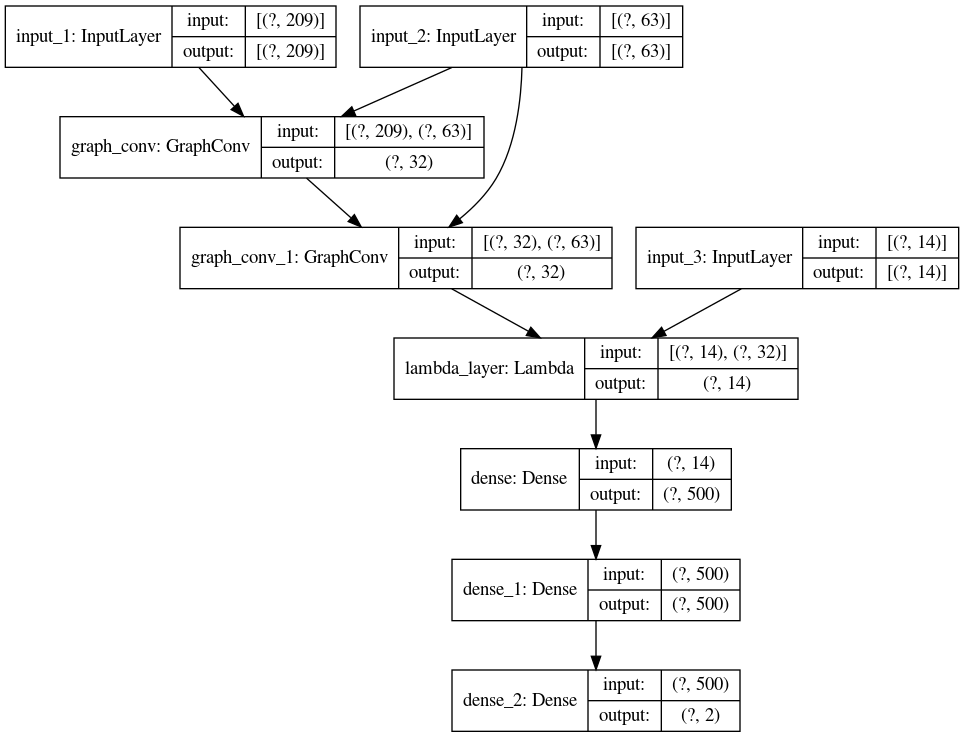
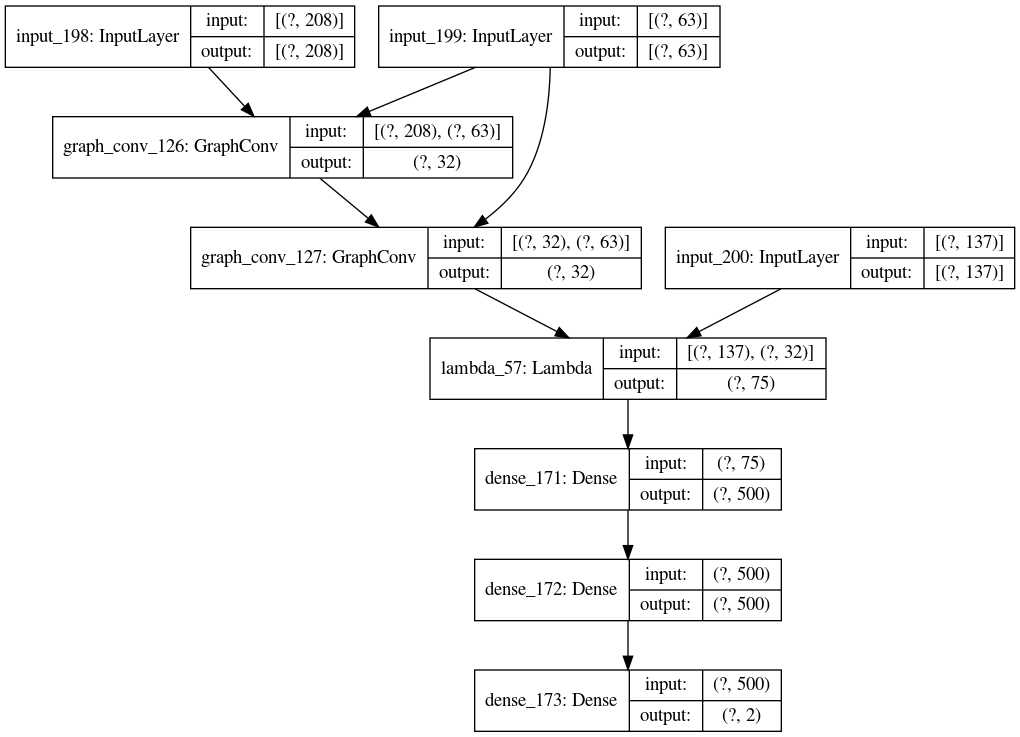
Works on batches for now.

diff --git a/trial1.py b/trial1.py
@@ -25,7 +25,7 @@ from tensorflow.keras.layers import Dense
 from tensorflow.keras.utils import plot_model
 
 
-from spektral.datasets import citation
+
 from spektral.layers import GraphConv
 from spektral.utils.convolution import localpooling_filter
 
@@ -40,6 +40,8 @@ train=lyft_data.sample(frac=0.8,random_state=200) #random state is a seed value
 test=lyft_data.drop(train.index)
 
 area_stat = pd.read_csv("areaStat.csv")
+
+
 
 #print(lyft_data.describe())
 
@@ -56,7 +58,7 @@ A = sparse.csr_matrix(area_A)
 # Parameters
 K = 2                   # Degree of propagation
 N = area_stat.shape[0]          # Number of nodes in the graph
-F = area_stat.shape[1]          # Original size of node features
+F = area_stat_np.shape[1]          # Original size of node features
 l2_reg = 5e-6           # L2 regularization rate
 learning_rate = 0.2     # Learning rate
 epochs = 2000         # Number of training epochs
@@ -66,40 +68,30 @@ embedding_vecor_length2 = 32
 
 
 # Get one hot encoding of columns B
-one_hot_o_train = pd.get_dummies(train['PUlocationID'], prefix='o')
-one_hot_d_train = pd.get_dummies(train['DOlocationID'], prefix='d')
+def create_data(d):
+    one_hot_o = pd.get_dummies(d['PUlocationID'], prefix='o')
+    one_hot_d = pd.get_dummies(d['DOlocationID'], prefix='d')
+    label = pd.get_dummies(d['SR_Flag'])
+    label_np = label.to_numpy().astype(np.float32)
+    d = d.drop('SR_Flag',axis = 1)
+    d = d.drop('PUlocationID',axis = 1)
+    d = d.drop('DOlocationID',axis = 1)
+    start_o = d.shape[1]
+    d = d.join(one_hot_o)
+    end_o = d.shape[1]-1
+    start_d = end_o+1
+    d = d.join(one_hot_d)
+    
+    d_np = d.to_numpy().astype(np.float32)
+    return [d_np,label_np,start_o,end_o,start_d]
+    
+[train_np,label_train_np,start_o,end_o,start_d] = create_data(train)
+[test_np,label_test_np,start_o1,end_o1,start_d1] = create_data(test)
 
-one_hot_o_test = pd.get_dummies(test['PUlocationID'], prefix='o')
-one_hot_d_test = pd.get_dummies(test['DOlocationID'], prefix='d')
 
-label_train = pd.get_dummies(train['SR_Flag'])
-label_train_np = label_train.to_numpy().astype(np.float32)
 
-label_test = pd.get_dummies(test['SR_Flag'])
-label_test_np = label_test.to_numpy().astype(np.float32)
 
-train = train.drop('SR_Flag',axis = 1)
-test = test.drop('SR_Flag',axis = 1)
-
-# Drop column B as it is now encoded
-train = train.drop('PUlocationID',axis = 1)
-test = test.drop('PUlocationID',axis = 1)
-train = train.drop('DOlocationID',axis = 1)
-test = test.drop('DOlocationID',axis = 1)
-start_o = lyft_data.shape[1]
-
-# Join the encoded df
-train = train.join(one_hot_o_train)
-test = test.join(one_hot_o_test)
-end_o = train.shape[1]-1
-start_d = end_o+1
-
-train = train.join(one_hot_d_train)
-train_np = train.to_numpy().astype(np.float32)
-test = test.join(one_hot_d_test)
-test_np = test.to_numpy().astype(np.float32)
-
-trip_feature = lyft_data.shape[1]
+trip_feature = train_np.shape[1]
 
 
 # Preprocessing operations
@@ -119,7 +111,7 @@ g1 = GraphConv(embedding_vecor_length1, #first graph conv layer
                    activation='relu',
                    kernel_regularizer=l2(l2_reg),
                    use_bias=False)([area_in, fltr_in])
-g2 = GraphConv(N, # Second graph conv layer
+g2 = GraphConv(embedding_vecor_length2, # Second graph conv layer
                    activation='softmax',
                    kernel_regularizer=l2(l2_reg),
                    use_bias=False)([g1, fltr_in])
@@ -157,33 +149,33 @@ g2 = GraphConv(N, # Second graph conv layer
 
 
 def gcn_to_trip(x):
-    trip_input=x
-    graph_output=g2
-    o = k.transpose(k.dot(k.transpose(trip_input[:,start_o:end_o]),k.transpose(graph_output)))
-    d = k.transpose(k.dot(k.transpose(trip_input[:,start_d:]),k.transpose(graph_output)))
+    trip_input=x[0]
+    graph_output=x[1]
+    o = k.dot(trip_input[:,start_o:end_o+1],graph_output)
+    d = k.dot(trip_input[:,start_d:],graph_output)
     t = trip_input[:,:start_o]
-    out = k.concatenate((t,o,d),axis=-1)
+    out = k.concatenate((t,o,d),axis=1)
+    
     return out
+
+
 
 
 trip_in = Input(shape = (trip_feature, ))
 
-l1 = Lambda(gcn_to_trip, name="lambda_layer")(trip_in)
+lam1 = Lambda(gcn_to_trip)([trip_in,g2])
 
-d1 = Dense(units=500,
+d1 = Dense(units=500,input_dim=trip_feature+embedding_vecor_length2*2,
             activation='relu',
             kernel_regularizer=l2(l2_reg),
-            use_bias=True)(l1)
+            use_bias=True)(lam1)
 
 d2 = Dense(units=500,
             activation='relu',
             kernel_regularizer=l2(l2_reg),
             use_bias=True)(d1)
 
-output = Dense(units=2,
-            activation='softmax',
-            kernel_regularizer=l2(l2_reg),
-            use_bias=True)(d2)
+output = Dense(units=2,activation='softmax')(d2)
 
 model = Model(inputs=[area_in, fltr_in, trip_in], outputs=output)
 
@@ -193,9 +185,12 @@ model.compile(optimizer=optimizer,
               weighted_metrics=['acc'])
 model.summary()
 
-# plot_model(model, to_file='model_plot.png', show_shapes=True, show_layer_names=True)
+plot_model(model, to_file='model_plot.png', show_shapes=True, show_layer_names=True)
 
 
+
+# model.fit([area_stat_np,fltr,train_np], label_train_np, epochs=3, batch_size=63)
+model.train_on_batch([area_stat_np,fltr,train_np[:63,:]], label_train_np[:63,:])
 
 # validation_data = ([area_stat_np,fltr,test_np], label_test_np)
 
